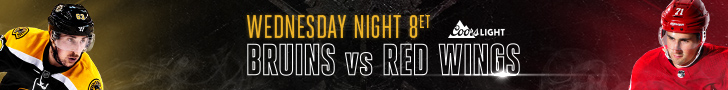
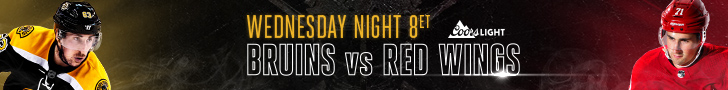
12317 728x90

Changed region(s): [[0.0, 0.0222, 0.1511, 1.0]]

diff --git a/121317/html_css/728x90/style.css b/121317/html_css/728x90/style.css
@@ -82,7 +82,7 @@ body{
 
 #faceoff{
 	position: absolute;
-	left: 112px;
+	left: 125px;
 	top: 15px;
 	width: 103px;
 	height: 63px;
